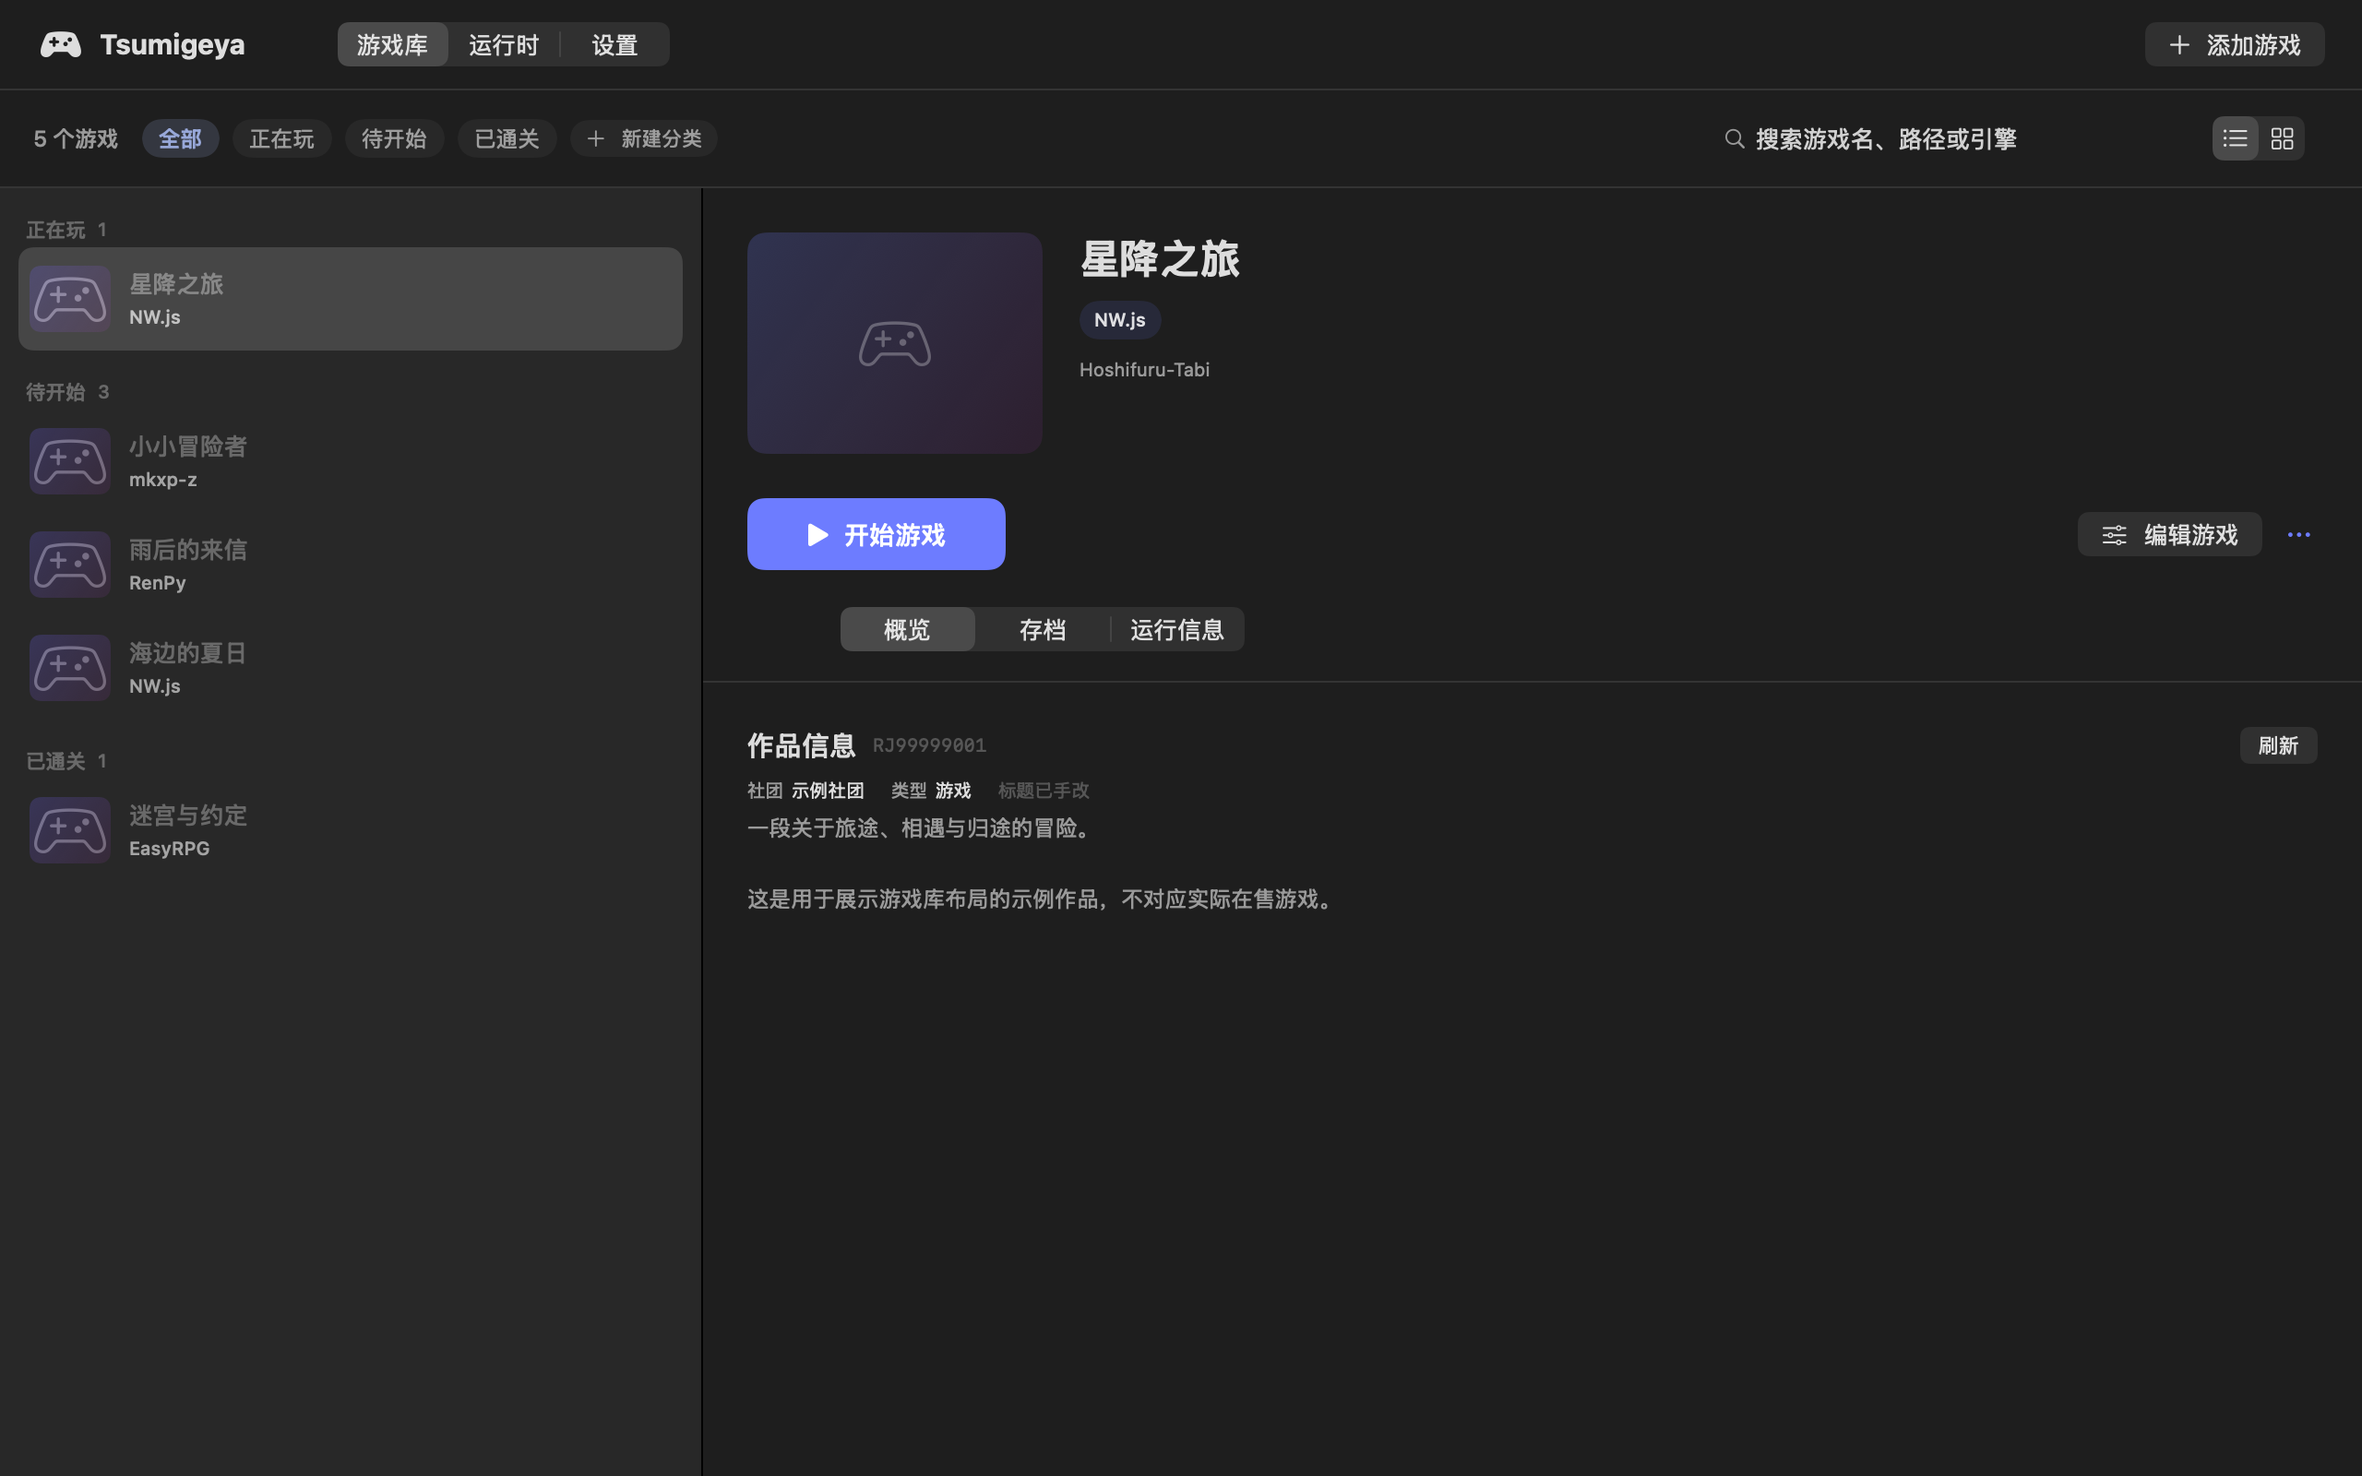
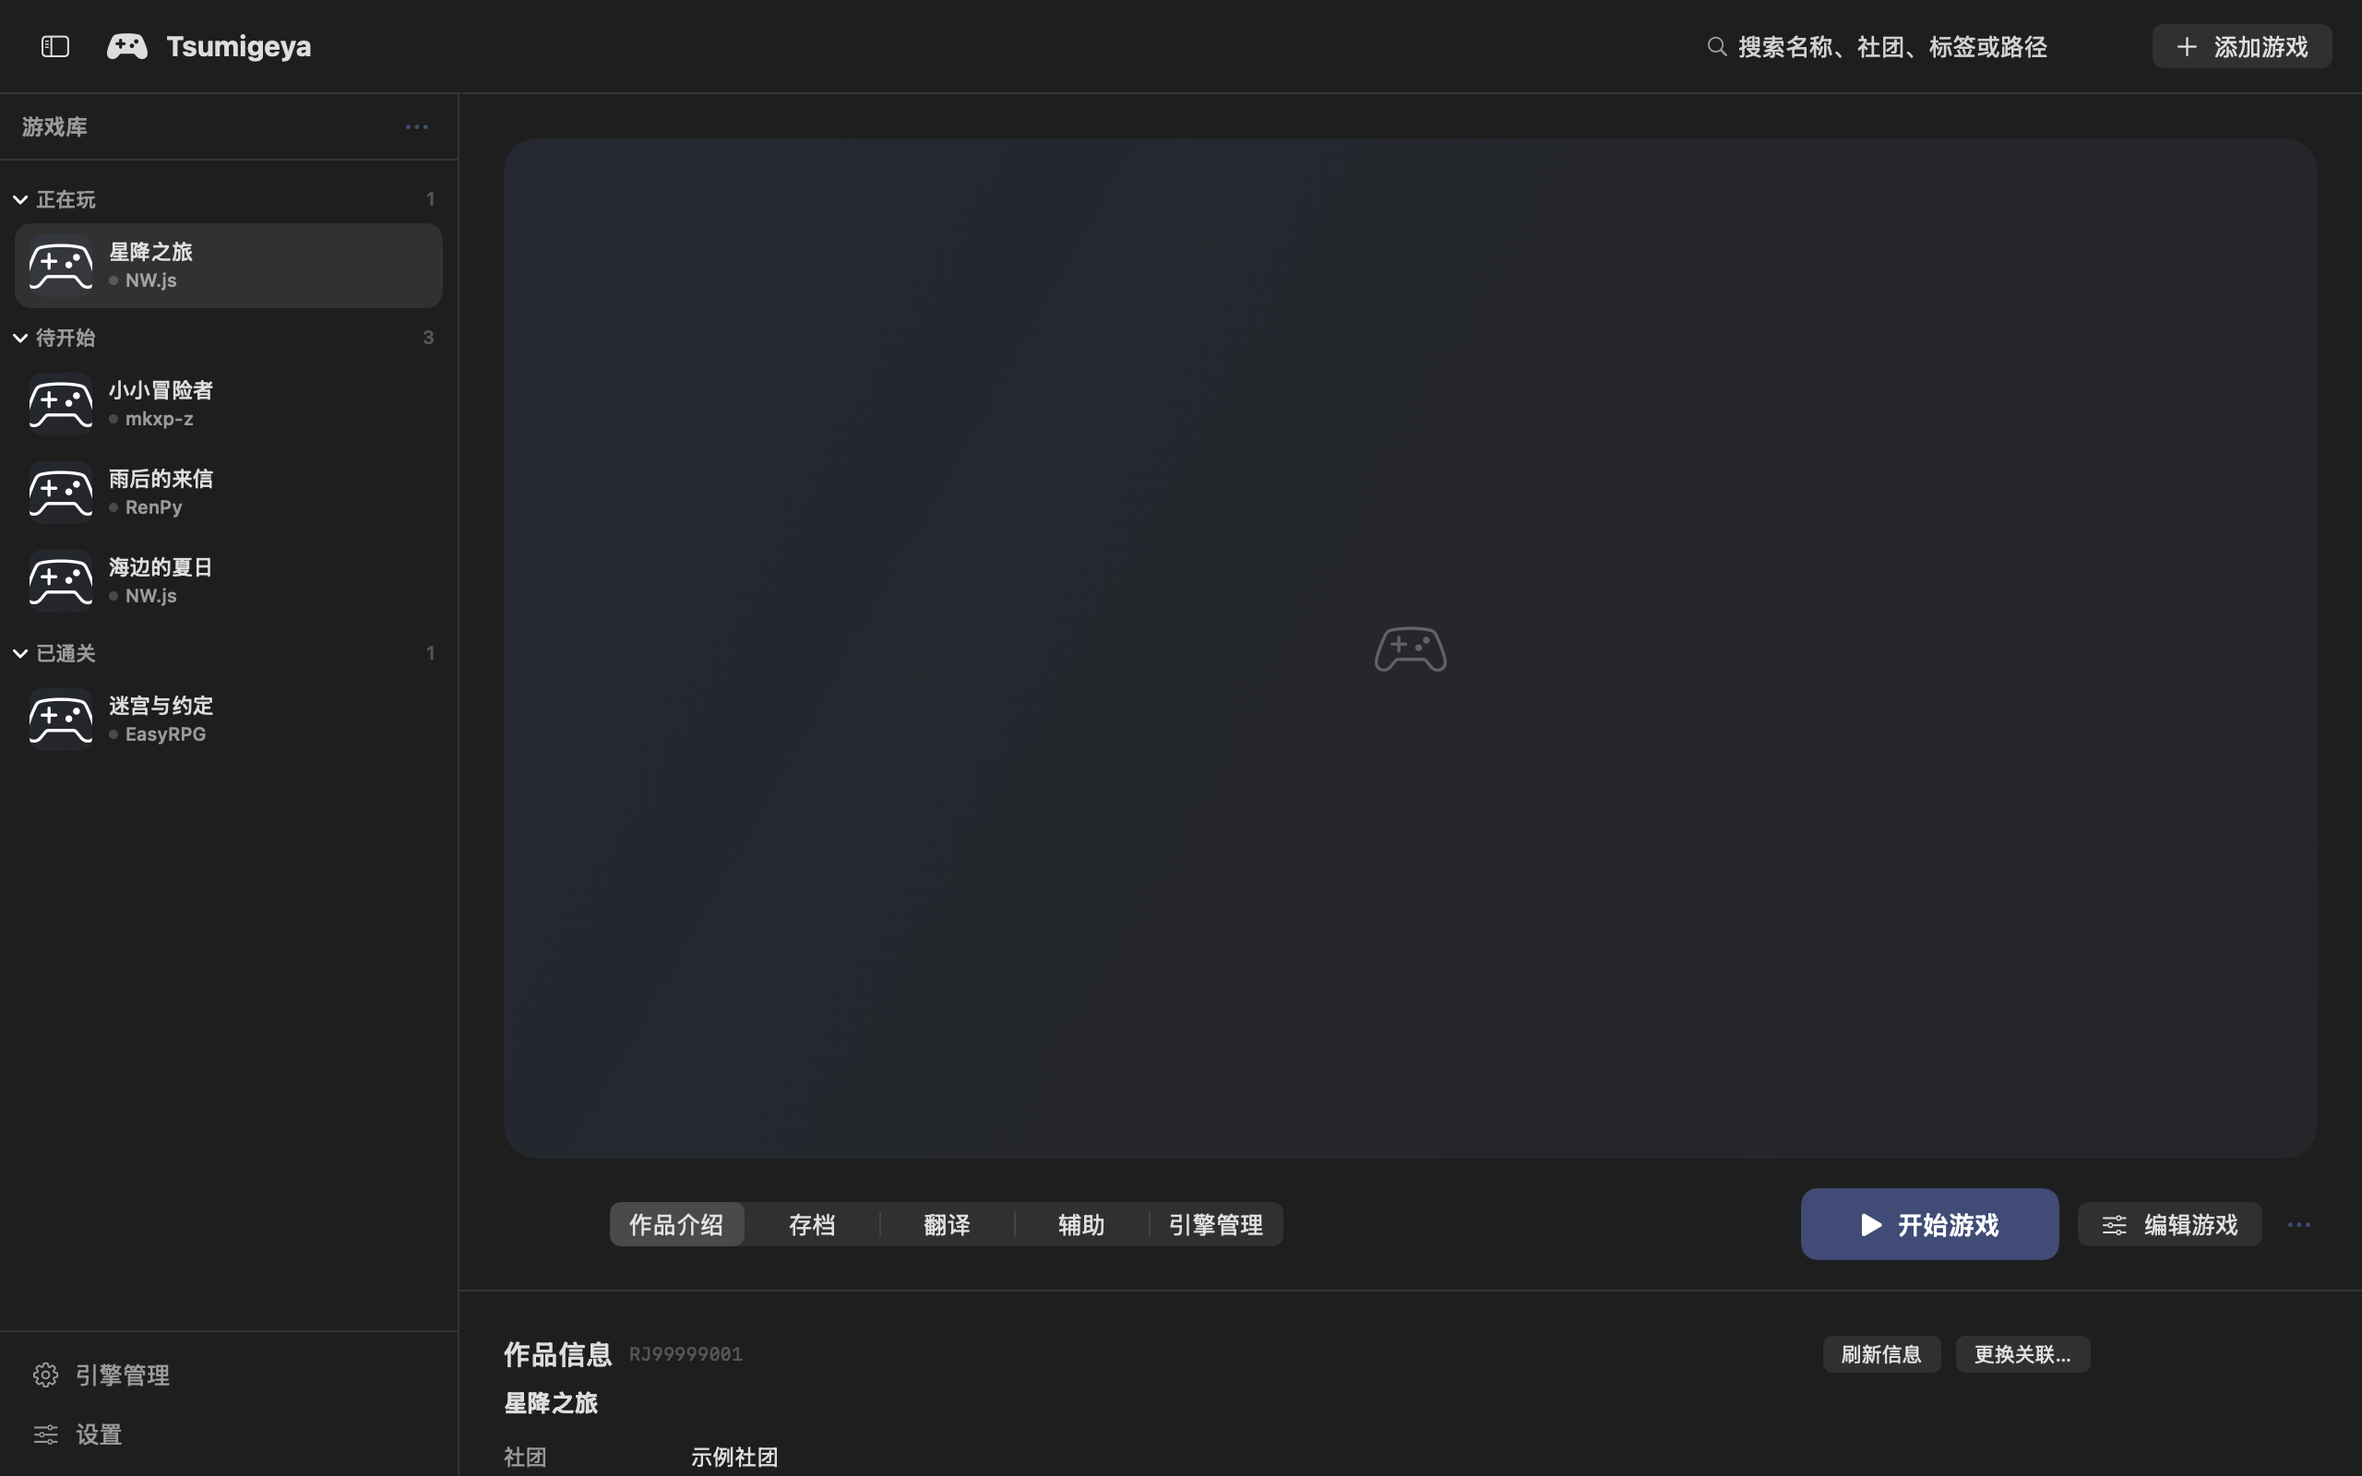
chore: prepare v3.0.0 release

diff --git a/mac-native/Sources/TsumigeyaApp/SettingsPage.swift b/mac-native/Sources/TsumigeyaApp/SettingsPage.swift
@@ -368,20 +368,13 @@ struct InfoRows: View {
         }
     }
 
-    /// 应用版本。
-    ///
-    /// ⚠ **不能从 `Bundle.main` 读**：SwiftPM 的 debug 可执行文件没有 Info.plist，
-    ///    读出来是空的 —— 用户会看到「版本：」后面什么都没有。
-    ///    Electron 版踩过类似的坑（B1：打包成 .app 后版本号恒 v0.0.0）。
-    ///
-    ///    这里用**硬编码的常量 + 注释提醒同步**，同时读 Bundle（有就用）。
+    /// 安装包使用 Info.plist；SwiftPM 开发入口没有版本信息，回退值与打包脚本同步。
     private var appVersion: String {
         if let v = Bundle.main.infoDictionary?["CFBundleShortVersionString"] as? String,
            !v.isEmpty {
             return v
         }
-        // TODO(P8)：打包 .app 时配 Info.plist，那时这里会自动读到。
-        return "1.1.0（开发构建，未打包）"
+        return "3.0.0（开发构建，未打包）"
     }
 
     private var platformString: String {

diff --git a/docs/常见问题.md b/docs/常见问题.md
@@ -50,9 +50,9 @@ shasum -a 256 Tsumigeya-*.dmg
 
 ### Wine 怎么使用？
 
-在「运行时」页安装「Wine（Windows 兼容）」，然后添加完整解压的游戏。Windows 游戏也可选择目录内的说明等普通文件来识别；只有一个 EXE 时会自动填写，有多个时需确认真正的启动文件，而不是安装器或卸载器。已有专用 macOS 运行时的游戏仍优先使用原有运行时。
+在「引擎管理」页安装「Wine（Windows 兼容）」，然后添加完整解压的游戏。Windows 游戏也可选择目录内的说明等普通文件来识别；只有一个 EXE 时会自动填写，有多个时需确认真正的启动文件，而不是安装器或卸载器。已有专用 macOS 运行时的游戏仍优先使用原有运行时。
 
-在「编辑游戏」中可调整 Windows 启动文件、逐行启动参数和中／日／英语言环境；「运行信息 → Windows 环境设置…」可调整 Windows 版本、音频和 DLL 等设置。首次启动需要初始化环境，耗时会比后续启动长。Apple 芯片 Mac 缺少 Rosetta 2 时，会先请求确认 Apple 许可，不会自动同意。
+在「编辑游戏」中可调整 Windows 启动文件、逐行启动参数和中／日／英语言环境；「引擎管理 → Windows 环境设置…」可调整 Windows 版本、音频和 DLL 等设置。首次启动需要初始化环境，耗时会比后续启动长。Apple 芯片 Mac 缺少 Rosetta 2 时，会先请求确认 Apple 许可，不会自动同意。
 
 每个游戏拥有独立的 Windows 环境，停止一个游戏不会结束其他环境中的游戏；卸载运行时会保留环境及其中的数据。存档可能在游戏目录或环境内部，无法自动定位时请在「存档」页手动指定，不要直接删除环境目录。Wine 不是安全沙盒，只运行可信来源的程序。中文缺字或游戏专用字体缺失仍可能需要安装相应字体。
 
@@ -86,7 +86,7 @@ shasum -a 256 Tsumigeya-*.dmg
 
 1. 游戏是否完整解压，添加的路径是否仍存在。
 2. 引擎识别是否正确，对应运行时是否安装完成。
-3. 「运行信息」中的引擎参数、运行时版本和路径是否合理。
+3. 详情「引擎管理」中的引擎参数、运行时版本和路径是否合理。
 4. 同一游戏是否已在运行，是否出现初始化错误或游戏自己的报错窗口。
 
 反馈时请提供应用版本、系统版本、芯片、游戏版本、引擎和复现步骤。可以提供公开的 RJ 编号或作品页面，不需要上传游戏本体。
@@ -149,7 +149,7 @@ Tyrano 目前面向可由 NW.js 打开的目录，不能直接支持 Electron／
 
 ### 如何批量补全作品信息？
 
-游戏库顶栏「批量操作 → 批量补全作品信息」会准备当前搜索和分类筛选范围内的游戏。默认仅处理未关联作品，也可选择补全并刷新已有信息。开始前可核对列表。
+侧边栏「游戏库」右侧菜单中的「批量补全作品信息」会准备当前搜索和分类筛选范围内的游戏。默认仅处理未关联作品，也可选择补全并刷新已有信息。开始前可核对列表。
 
 唯一 RJ 编号直接获取并保存；检测到多个编号或按名称搜到候选时，停在「待确认」，通过「查找并确认」逐项预览后关联，绝不自动选首条。已有作品刷新保留手动修改，不改库内游戏名称和存档；分类按作品类型更新，保留手动增加和移除的归属。
 

diff --git a/docs/UI验收方法.md b/docs/UI验收方法.md
@@ -64,7 +64,7 @@ mkdir -p ../.dev-scratch/ui
 | 外部作品信息 | 未授权不调用；普通聊天接口不伪装联网；候选不自动关联；真实页面正文与分享封面可读取；来源引文可核对、字段可选和手改；确认前不落盘，取消／删除／编号复用不回写；手动填写不需接口，保存不改原游戏名；模拟接口与真实付费模型验收分别说明 |
 | 独立搜索与局域网 | Tavily／SearXNG／自定义方式切换、独立密钥保存；普通聊天模型无需工具调用即可搜索后整理；候选摘要不直接落盘；认证失败不自动重试或切换服务；局域网授权需确认，取消不授权，改地址或撤销后旧任务失效；模型与搜索互不授权，不放宽网页和图片限制；兼容选项实际进入请求，真实服务与模拟服务验收分别说明 |
 | 批量作品信息 | 当前筛选范围与仅未关联／刷新全部模式正确；唯一编号自动补全、多编号与搜索候选不自动关联；可逐项确认、暂停继续和仅重试失败项；已保存范围明确，失败不阻断队列；关闭后晚到结果不落盘，删除或编号复用不串数据 |
-| 丰富作品信息 | 发售日期、系列、标签、语言、制作／配音、原版系统和长介绍可读；介绍展开／收起，截图放大／关闭；已缓存封面与预览在重新打开页面和离线时仍可显示；新字段手改后刷新不覆盖；刷新失败仍显示旧信息 |
+| 丰富作品信息 | 发售日期、系列、标签、语言、制作／配音、原版系统和长介绍可读；长介绍滚动、选择和复制，截图放大／关闭；已缓存封面与预览在重新打开页面和离线时仍可显示；新字段手改后刷新不覆盖；刷新失败仍显示旧信息 |
 | 自动分类 | 已保存作品类型归类，预览不改分类；旧归属保留，手动增删刷新后仍在；类型变化只替换自动部分；恢复自动需确认；分类重命名不丢来源，删除后刷新不复活；重新打开应用与筛选结果一致 |
 | 游戏移除 | 运行中阻止；资料、游玩记录或游戏库备份失败时说明已保存范围，游戏记录保留并可重试；清理失败后晚到抓取不回写；成功后编号复用不继承原资料、分类和人工调整 |
 | 单部添加 | 从顶部添加或 `⌘O` 打开无装饰侧栏的向导，确认选择文件、引擎确认、命名保存与取消仍可用 |

diff --git a/docs/打包与分发.md b/docs/打包与分发.md
@@ -8,12 +8,12 @@
 cd mac-native
 swift build
 swift test
-TSUMIGEYA_VERSION=2.5.0 bash scripts/package-macos.sh
+TSUMIGEYA_VERSION=3.0.0 bash scripts/package-macos.sh
 ```
 
 发版时显式设置目标版本。脚本构建 release、组装 app、复制 `assets/icon.icns`、ad-hoc 签名并生成 DMG；产物在 `mac-native/dist/`，不提交。当前不提供 `--universal` 参数，打包架构跟随构建机器。
 
-安装包必须同时携带 `TsumigeyaCore` 和 `TsumigeyaApp` 的 SwiftPM 资源包，分别用于运行时／辅助脚本和界面图片；缺少任一资源包时停止打包。验收时需暂时移开开发构建缓存，再实际打开添加游戏窗口检查图片，避免 SwiftPM 的开发路径回退掩盖漏打包。
+安装包必须携带 `TsumigeyaCore` 的 SwiftPM 资源包，用于运行时／辅助脚本；缺失时停止打包。应用内装饰图片已移除，当前 `TsumigeyaApp` 不再声明资源包，不应要求或复制旧界面资源。图标仍从 `assets/icon.icns` 复制。验收时需隔离开发构建缓存，确认安装包不依赖开发目录。
 
 ## 签名限制
 
@@ -50,7 +50,7 @@ Release 说明只保留两个章节：
 ## 发布到 GitHub
 
 1. 确认远程最新版本和目标标签没有冲突；同步 README、常见问题和本次更新说明，完成检查后提交源码。标签指向最终提交，不强制覆盖已有标签。
-2. 按目标版本显式打包，在产物目录生成 `SHA256SUMS.txt`，例如 `shasum -a 256 Tsumigeya-2.5.0.dmg > SHA256SUMS.txt`。确认安装包内版本与文件名一致。
+2. 按目标版本显式打包，在产物目录生成 `SHA256SUMS.txt`，例如 `shasum -a 256 Tsumigeya-3.0.0.dmg > SHA256SUMS.txt`。确认安装包内版本与文件名一致。
 3. 推送源码和版本标签，先创建草稿 Release，上传 DMG 与校验文件。正文遵守上面的两章节约定，不附带临时截图、日志或私人素材。
 4. 核对草稿的标签、正文、附件名称与校验值后再公开，并将其标记为最新版。发布后重新检查首页下载入口和附件可下载性。
 5. 删除旧 Release 或附件是独立操作，不能因为发布新版而自动删除；须先确认具体范围。

diff --git a/更新日志.md b/更新日志.md
@@ -4,6 +4,16 @@
 
 这里记录的是项目开发进展，不代表相关功能已经发布到下载版。已发布版本及安装包以 GitHub 发布记录为准。历史内容从近期改动开始整理，不追溯为完整版本史。
 
+## 2026-11-19
+
+### v3.0.0 · 原生游戏库与作品资料升级
+
+- 汇总 v2.5.0 之后的游戏库重做、作品类型自动分类、多语言作品资料、外部页面 AI／手动补全及独立搜索能力；详情长正文、图片解码和本地缓存优化一并进入本次版本。
+- 移除旧隐私模式与应用内装饰素材，保留历史设置和未知字段兼容；README 更新为 3.0 亮点及当前示例界面截图，作品信息、功能入口说明与当前打包资源要求同步。
+- 安装包与开发构建版本统一为 3.0.0，保留 macOS 26+／Apple Silicon 要求与 ad-hoc 签名、未公证限制。不扩展既有游戏引擎的兼容承诺。
+- 验证：Mac Debug／Release 编译通过，完整串行测试发现 650 项、119 组，4 项外部依赖用例按配置跳过，其余通过；另行启用真实图片下载及离线缓存测试通过，中英文 DLsite 抓取与独立缓存核对通过。JavaScript 14 项、Python 9 项和 Ruby 10 项辅助脚本回归通过。
+- 安装包已通过 arm64／版本／资源、ad-hoc 签名及 DMG 完整性检查；从 DMG 更新 Mac 安装版，在隔离示例库与发布构建缓存移开的条件下正常打开，并实际检查作品选择、侧边栏收起恢复、添加向导打开与取消。旧安装版保留回退；本轮不重新宣称商业游戏、真实存档导入导出、完整 AI 连续流程或所有系统的首次隔离打开验收。
+
 ## 2026-11-18
 ### 移除应用与仓库中的看板娘元素（未发布）
 

diff --git a/docs/翻译与作弊.md b/docs/翻译与作弊.md
@@ -1,6 +1,6 @@
 # 翻译与作弊
 
-在游戏详情的「翻译与作弊」页中使用。**启动、翻译、作弊是三种不同能力**：「运行时」页分别列出支持范围；能启动某个引擎，不等于已经接入其文字和游戏状态。
+在游戏详情的「翻译」与「辅助」两个独立页中使用。**启动、翻译、作弊是三种不同能力**：「引擎管理」页分别列出支持范围；能启动某个引擎，不等于已经接入其文字和游戏状态。
 
 ## 内置辅助模块
 

diff --git a/docs/作品信息获取.md b/docs/作品信息获取.md
@@ -1,6 +1,6 @@
 # 作品信息获取
 
-本文对应开发源码，相关能力尚未随新版安装包发布。信息补全不改变游戏启动兼容性，也不会下载游戏本体。
+本文对应 v3.0.0 的作品信息功能。信息补全不改变游戏启动兼容性，也不会下载游戏本体。
 
 ## 选择资料语言
 
